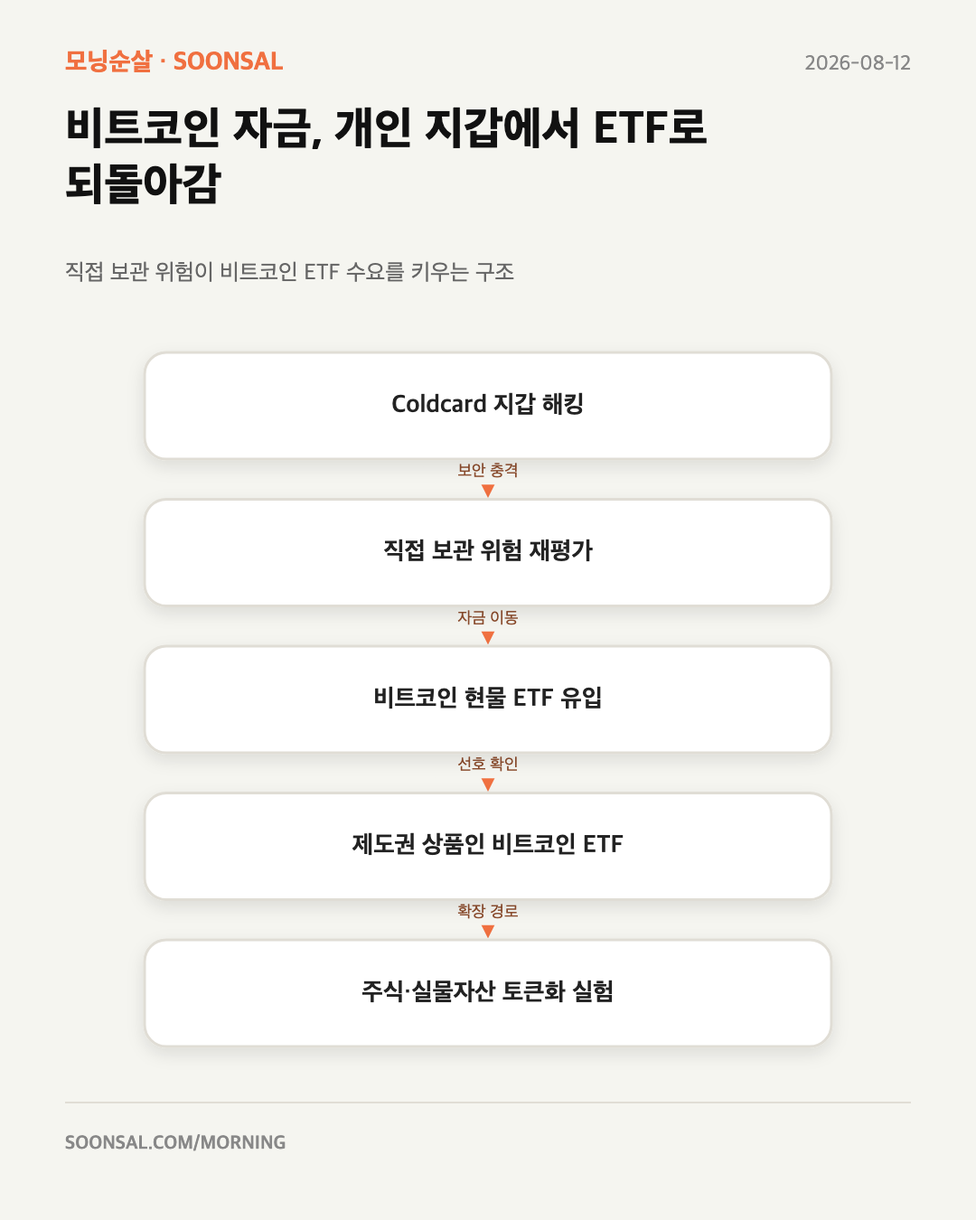
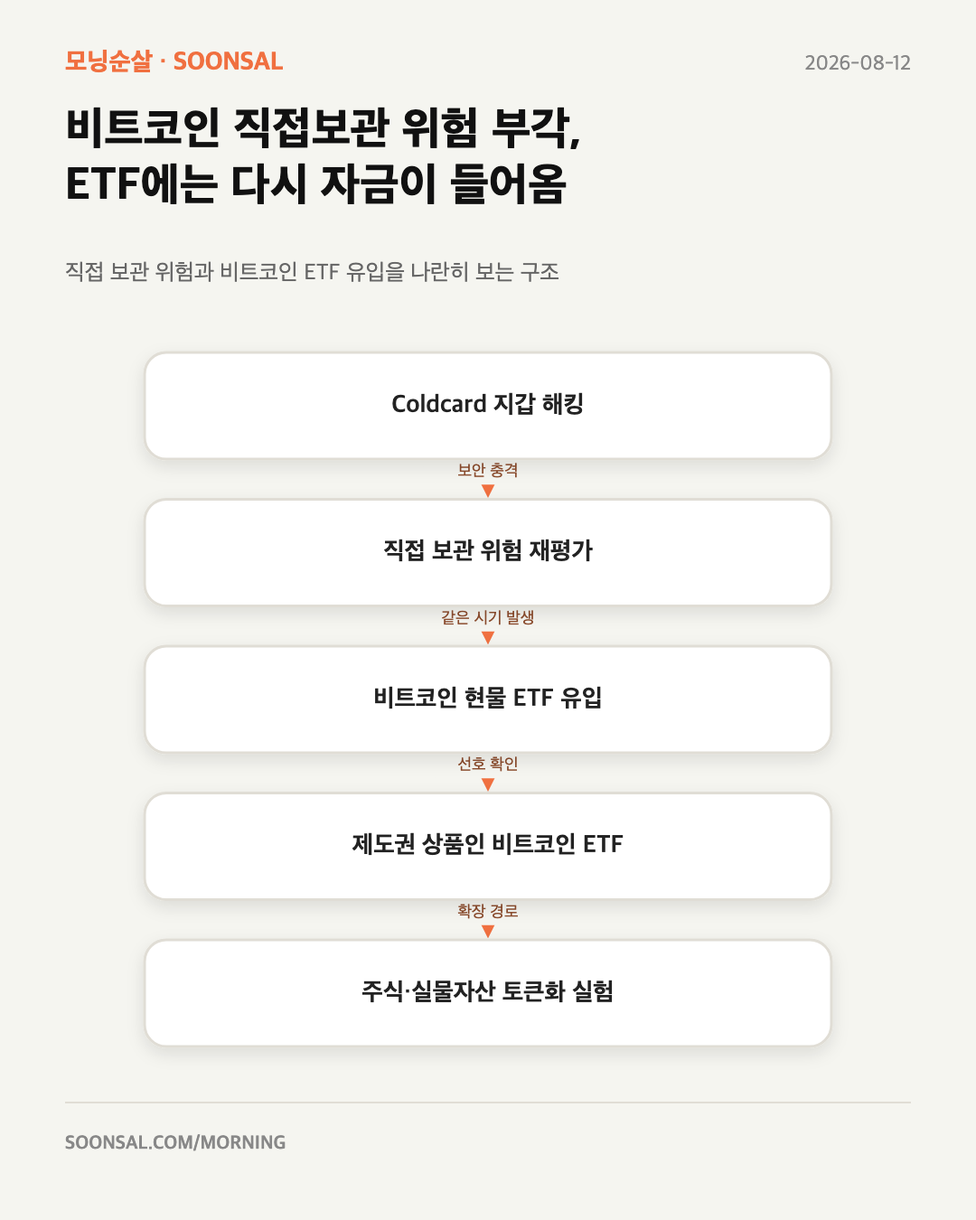
협업 페이지 — 파트너 8곳, 사례는 링크 우선, 격자로 정렬
제안서의 "기존 파트너사: 미래에셋자산운용, 한국투자증권, NH증권, 신한카드,
BC카드, 네이버, 두나무, Salesforce 등" 줄이 근거다. 넷만 올리고 있었다.

주의해서 걸렀다 — 삼성·현대차·LG·SK·토스·카카오·쿠팡은 제안서에 있지만
'구독자 도메인' 목록이다. 읽는 회사를 파트너로 올리면 그건 거짓말이 된다.

스샷을 크게 늘어놓던 것을 걷어냈다. 페이지만 길어지고 정작 링크가 묻힌다.
살아 있는 링크만 건다:
  Salesforce   발행분 (soonsal.com, 200 확인)
  미래에셋      인스타그램 게시물 (200 확인)
  한국투자증권·BC카드  링크 없음 → 썸네일 한 장만

네이버·두나무 등은 옛 사이트 자료라 링크가 죽어 있어 이름만 싣는다.

정렬: 브랜드 8칸을 4열 격자로(모바일 2열), 사례는 62px 정사각 썸네일 + 글
2열 격자로 통일했다. 폭이 제각각인 칩을 흘려두면 줄 끝이 들쭉날쭉하다.
사례 이미지는 240px 정사각으로 미리 잘라 행 높이가 흔들리지 않게 했다.

로고는 파일이 들어오면 자동으로 바뀐다 — assets/collab/logo-<slug>.svg|png
(mirae · kis · nh · shinhan · bccard · naver · dunamu · salesforce).

Changed region(s): [[0.0611, 0.0622, 0.7333, 0.1867], [0.3667, 0.2178, 0.55, 0.2489], [0.4583, 0.4978, 0.55, 0.5289]]

diff --git a/morning/2026/0812.html b/morning/2026/0812.html
@@ -119,7 +119,7 @@ border-radius:50%;background:#F07040;opacity:0;transition:opacity .2s}
   <span class="story-index" aria-hidden="true">02</span>
   <div class="story-label">02 · 에너지 · 거시경제</div>
   <h2 class="story-title">호르무즈 충격, 하루짜리 뉴스에서 2027년 변수로 바뀜</h2>
-  <p class="opening bullet">미 행정부는 이란 전쟁발 원유 공급 차질이 2027년 말까지 하루 약 60만 배럴 이어질 것으로 봤음. 시장이 공급 충격을 장기 변수로 다시 분류하는 중임</p>
+  <p class="opening bullet">미 에너지정보청은 호르무즈 해협 차질이 이어지며 산유량과 교역이 전쟁 전 수준으로 돌아가는 시점을 2027년 초로 봤음. 시장이 공급 충격을 장기 변수로 다시 분류하는 중임</p>
   <figure class="diagram-frame"><div class="diagram-live" role="img" aria-label="해협 통과량 감소가 물가로 번지는 경로" data-diagram-src="/morning/assets/20260812/hormuz-oil-diagram.svg?v=d826d7da6b7e" data-diagram-mobile-src="/morning/assets/20260812/hormuz-oil-diagram-mobile.svg?v=a8fa78831300" data-diagram-orientation="TB"><picture class="diagram-poster"><source media="(max-width:720px)" srcset="/morning/assets/20260812/hormuz-oil-diagram-mobile.svg?v=a8fa78831300"><img src="/morning/assets/20260812/hormuz-oil-diagram.svg?v=d826d7da6b7e" alt="" aria-hidden="true" loading="lazy"></picture></div><button class="diagram-replay" type="button" aria-label="해협 통과량 감소가 물가로 번지는 경로 애니메이션 다시 보기"><span aria-hidden="true">↻</span> 흐름 한 번 더</button></figure>
   <div class="soonsal-point"><strong>순살 포인트</strong><p>유가 급등 하루를 맞히는 문제가 아니라 에너지 비용이 물가와 금리의 하단을 얼마나 오래 받칠지 봐야 함</p></div>
 </article><article class="story morning-topic topic-ai" id="nvidia-financing" data-topic-theme="ai" data-ss-story="m20260812-nvidia-financing" data-ss-issue="m20260812" style="--topic-accent:#4D6F8A;--topic-wash:#EEF4F7;--topic-soft:#DDE9EF">
@@ -127,7 +127,7 @@ border-radius:50%;background:#F07040;opacity:0;transition:opacity .2s}
   <div class="story-label">03 · AI · 비상장시장</div>
   <h2 class="story-title">Nvidia, 칩 판매자에서 AI 금융의 보증인으로 이동함</h2>
   <p class="opening bullet">Nvidia와 대형 자산운용사들이 AI 인프라에 쓸 5,000억 달러 조달 계획을 내놨음. 고객에게 돈줄까지 대며 칩 수요를 키우는 구조임</p>
-  <figure class="diagram-frame"><div class="diagram-live" role="img" aria-label="Nvidia 신용이 고객의 AI 투자로 들어가는 구조" data-diagram-src="/morning/assets/20260812/nvidia-financing-diagram.svg?v=364fe79f1ef8" data-diagram-mobile-src="/morning/assets/20260812/nvidia-financing-diagram-mobile.svg?v=88e1df55a718" data-diagram-orientation="TB"><picture class="diagram-poster"><source media="(max-width:720px)" srcset="/morning/assets/20260812/nvidia-financing-diagram-mobile.svg?v=88e1df55a718"><img src="/morning/assets/20260812/nvidia-financing-diagram.svg?v=364fe79f1ef8" alt="" aria-hidden="true" loading="lazy"></picture></div><button class="diagram-replay" type="button" aria-label="Nvidia 신용이 고객의 AI 투자로 들어가는 구조 애니메이션 다시 보기"><span aria-hidden="true">↻</span> 흐름 한 번 더</button></figure>
+  <figure class="diagram-frame"><div class="diagram-live" role="img" aria-label="Nvidia 신용이 고객의 AI 투자로 들어가는 구조" data-diagram-src="/morning/assets/20260812/nvidia-financing-diagram.svg?v=cbfc952e0b64" data-diagram-mobile-src="/morning/assets/20260812/nvidia-financing-diagram-mobile.svg?v=bc9e5947454a" data-diagram-orientation="TB"><picture class="diagram-poster"><source media="(max-width:720px)" srcset="/morning/assets/20260812/nvidia-financing-diagram-mobile.svg?v=bc9e5947454a"><img src="/morning/assets/20260812/nvidia-financing-diagram.svg?v=cbfc952e0b64" alt="" aria-hidden="true" loading="lazy"></picture></div><button class="diagram-replay" type="button" aria-label="Nvidia 신용이 고객의 AI 투자로 들어가는 구조 애니메이션 다시 보기"><span aria-hidden="true">↻</span> 흐름 한 번 더</button></figure>
   <div class="soonsal-point"><strong>순살 포인트</strong><p>AI 투자가 둔화될 때 칩 판매량뿐 아니라 Nvidia가 지원한 자산의 잔존가치까지 함께 봐야 하는 새 위험 경로임</p></div>
 </article><article class="story morning-topic topic-ai" id="ai-physical-bottleneck" data-topic-theme="ai" data-ss-story="m20260812-ai-physical-bottleneck" data-ss-issue="m20260812" style="--topic-accent:#4D6F8A;--topic-wash:#EEF4F7;--topic-soft:#DDE9EF">
   <span class="story-index" aria-hidden="true">04</span>
@@ -140,8 +140,8 @@ border-radius:50%;background:#F07040;opacity:0;transition:opacity .2s}
   <span class="story-index" aria-hidden="true">05</span>
   <div class="story-label">05 · 환율 · 아시아</div>
   <h2 class="story-title">엔화 160선, 일본만의 문제가 아니라 원화 방어선임</h2>
-  <p class="opening bullet">엔화가 달러당 160엔에 다시 가까워졌음. 미일 공조 개입 뒤 얻은 상승분의 절반가량을 반납하면서 개입의 지속력을 다시 시험하는 자리임</p>
-  <figure class="diagram-frame"><div class="diagram-live" role="img" aria-label="엔화 약세가 원화 방어 부담으로 넘어오는 경로" data-diagram-src="/morning/assets/20260812/yen-160-diagram.svg?v=b394fa4257b5" data-diagram-mobile-src="/morning/assets/20260812/yen-160-diagram-mobile.svg?v=b813e1e65b58" data-diagram-orientation="TB"><picture class="diagram-poster"><source media="(max-width:720px)" srcset="/morning/assets/20260812/yen-160-diagram-mobile.svg?v=b813e1e65b58"><img src="/morning/assets/20260812/yen-160-diagram.svg?v=b394fa4257b5" alt="" aria-hidden="true" loading="lazy"></picture></div><button class="diagram-replay" type="button" aria-label="엔화 약세가 원화 방어 부담으로 넘어오는 경로 애니메이션 다시 보기"><span aria-hidden="true">↻</span> 흐름 한 번 더</button></figure>
+  <p class="opening bullet">엔화가 달러당 160엔에 다시 가까워졌음. 미일 공조 개입 뒤에도 약세가 다시 이어지면서 개입의 지속력을 시험하는 자리임</p>
+  <figure class="diagram-frame"><div class="diagram-live" role="img" aria-label="엔화 약세가 원화 방어 부담으로 넘어오는 경로" data-diagram-src="/morning/assets/20260812/yen-160-diagram.svg?v=137c5162c050" data-diagram-mobile-src="/morning/assets/20260812/yen-160-diagram-mobile.svg?v=c491e87f62ce" data-diagram-orientation="TB"><picture class="diagram-poster"><source media="(max-width:720px)" srcset="/morning/assets/20260812/yen-160-diagram-mobile.svg?v=c491e87f62ce"><img src="/morning/assets/20260812/yen-160-diagram.svg?v=137c5162c050" alt="" aria-hidden="true" loading="lazy"></picture></div><button class="diagram-replay" type="button" aria-label="엔화 약세가 원화 방어 부담으로 넘어오는 경로 애니메이션 다시 보기"><span aria-hidden="true">↻</span> 흐름 한 번 더</button></figure>
   <div class="soonsal-point"><strong>순살 포인트</strong><p>원화와 외국인 수급을 볼 때 미국 CPI만큼 엔화의 속도와 일본 당국 반응을 함께 봐야 하는 날임</p></div>
 </article><article class="story morning-topic topic-technology" id="apple-memory" data-topic-theme="technology" data-ss-story="m20260812-apple-memory" data-ss-issue="m20260812" style="--topic-accent:#5E6788;--topic-wash:#F0F1F7;--topic-soft:#E0E3EF">
   <span class="story-index" aria-hidden="true">06</span>
@@ -154,21 +154,21 @@ border-radius:50%;background:#F07040;opacity:0;transition:opacity .2s}
   <span class="story-index" aria-hidden="true">07</span>
   <div class="story-label">07 · 자동차 · 배터리</div>
   <h2 class="story-title">아시아 자동차 시장, EV 직행 대신 하이브리드를 택함</h2>
-  <p class="opening bullet">일본은 인도 대수의 절반 이상이 이미 하이브리드임. 인도와 동남아가 2035년까지 가장 빠른 성장 시장으로 꼽히면서 아시아 자동차 시장의 무게중심이 달라지는 중임</p>
+  <p class="opening bullet">일본에서 하이브리드가 신차 판매의 절반을 넘겼고, 동남아에서도 순수 전기차보다 하이브리드 판매가 더 빠르게 늘고 있음. 아시아 자동차 시장의 무게중심이 달라지는 중임</p>
   <figure class="diagram-frame"><div class="diagram-live" role="img" aria-label="하이브리드 확산이 한국 배터리 수요로 이어지는 경로" data-diagram-src="/morning/assets/20260812/hybrid-asia-diagram.svg?v=b21df0623553" data-diagram-mobile-src="/morning/assets/20260812/hybrid-asia-diagram-mobile.svg?v=0c80895044fb" data-diagram-orientation="TB"><picture class="diagram-poster"><source media="(max-width:720px)" srcset="/morning/assets/20260812/hybrid-asia-diagram-mobile.svg?v=0c80895044fb"><img src="/morning/assets/20260812/hybrid-asia-diagram.svg?v=b21df0623553" alt="" aria-hidden="true" loading="lazy"></picture></div><button class="diagram-replay" type="button" aria-label="하이브리드 확산이 한국 배터리 수요로 이어지는 경로 애니메이션 다시 보기"><span aria-hidden="true">↻</span> 흐름 한 번 더</button></figure>
   <div class="soonsal-point"><strong>순살 포인트</strong><p>전기차 판매량만 보면 놓치는 배터리 탑재량 변화가 한국 이차전지 실적에 직접 연결됨</p></div>
 </article><article class="story morning-topic topic-crypto" id="bitcoin-custody" data-topic-theme="crypto" data-ss-story="m20260812-bitcoin-custody" data-ss-issue="m20260812" style="--topic-accent:#7B5A78;--topic-wash:#F7EFF5;--topic-soft:#EBDDE8">
   <span class="story-index" aria-hidden="true">08</span>
   <div class="story-label">08 · 크립토 · 토큰화</div>
-  <h2 class="story-title">비트코인 자금, 개인 지갑에서 ETF로 되돌아감</h2>
-  <p class="opening bullet">Coldcard 지갑 해킹 뒤 미국 비트코인 현물 ETF에 4월 이후 최대 주간 순유입이 들어왔음. 직접 보관 위험이 커지자 제도권 상품인 ETF를 택한 흐름임</p>
-  <figure class="diagram-frame"><div class="diagram-live" role="img" aria-label="직접 보관 위험이 비트코인 ETF 수요를 키우는 구조" data-diagram-src="/morning/assets/20260812/bitcoin-custody-diagram.svg?v=e89d518339a0" data-diagram-mobile-src="/morning/assets/20260812/bitcoin-custody-diagram-mobile.svg?v=09f3bba0cd66" data-diagram-orientation="TB"><picture class="diagram-poster"><source media="(max-width:720px)" srcset="/morning/assets/20260812/bitcoin-custody-diagram-mobile.svg?v=09f3bba0cd66"><img src="/morning/assets/20260812/bitcoin-custody-diagram.svg?v=e89d518339a0" alt="" aria-hidden="true" loading="lazy"></picture></div><button class="diagram-replay" type="button" aria-label="직접 보관 위험이 비트코인 ETF 수요를 키우는 구조 애니메이션 다시 보기"><span aria-hidden="true">↻</span> 흐름 한 번 더</button></figure>
-  <div class="soonsal-point"><strong>순살 포인트</strong><p>크립토 확산의 승부처가 탈중앙화 자체보다 누가 보관하고 어떤 상품을 통해 거래되느냐로 이동하고 있음</p></div>
+  <h2 class="story-title">비트코인 직접보관 위험 부각, ETF에는 다시 자금이 들어옴</h2>
+  <p class="opening bullet">Coldcard 취약점 논란이 커진 같은 주, 미국 비트코인 현물 ETF에는 대규모 주간 순유입이 들어왔음. 두 흐름이 함께 나타났지만 직접적인 인과관계가 확인된 건 아님</p>
+  <figure class="diagram-frame"><div class="diagram-live" role="img" aria-label="직접 보관 위험과 비트코인 ETF 유입을 나란히 보는 구조" data-diagram-src="/morning/assets/20260812/bitcoin-custody-diagram.svg?v=fc3877815345" data-diagram-mobile-src="/morning/assets/20260812/bitcoin-custody-diagram-mobile.svg?v=ff442457dc0a" data-diagram-orientation="TB"><picture class="diagram-poster"><source media="(max-width:720px)" srcset="/morning/assets/20260812/bitcoin-custody-diagram-mobile.svg?v=ff442457dc0a"><img src="/morning/assets/20260812/bitcoin-custody-diagram.svg?v=fc3877815345" alt="" aria-hidden="true" loading="lazy"></picture></div><button class="diagram-replay" type="button" aria-label="직접 보관 위험과 비트코인 ETF 유입을 나란히 보는 구조 애니메이션 다시 보기"><span aria-hidden="true">↻</span> 흐름 한 번 더</button></figure>
+  <div class="soonsal-point"><strong>순살 포인트</strong><p>직접 보관과 ETF 가운데 무엇을 고를지 결정하는 기준에 보안과 관리 부담이 더 크게 들어오기 시작했음</p></div>
 </article><article class="story morning-topic topic-korea" id="korea-market" data-topic-theme="korea" data-ss-story="m20260812-korea-market" data-ss-issue="m20260812" style="--topic-accent:#B3541E;--topic-wash:#FBF0E9;--topic-soft:#F4DDCF">
   <span class="story-index" aria-hidden="true">09</span>
   <div class="story-label">09 · 한국 · 반도체</div>
   <h2 class="story-title">한국 시장, 메모리 호재와 AI 주가 부담이 함께 들어옴</h2>
-  <p class="opening bullet">8월 초 반도체 수출 호조로 삼성전자와 SK하이닉스가 반등했고 외국인도 순매수로 돌아섰음. 하지만 해외 시장은 같은 반도체 안에서도 서로 다른 방향을 가리킴</p>
+  <p class="opening bullet">반도체주 매수세가 돌아오며 삼성전자와 SK하이닉스가 동반 반등했음. 하지만 해외 시장은 같은 반도체 안에서도 서로 다른 방향을 가리킴</p>
   <figure class="diagram-frame"><div class="diagram-live" role="img" aria-label="한국 반도체에 들어오는 세 가지 서로 다른 신호" data-diagram-src="/morning/assets/20260812/korea-market-diagram.svg?v=71432acb1127" data-diagram-mobile-src="/morning/assets/20260812/korea-market-diagram-mobile.svg?v=134f1a57f475" data-diagram-orientation="TB"><picture class="diagram-poster"><source media="(max-width:720px)" srcset="/morning/assets/20260812/korea-market-diagram-mobile.svg?v=134f1a57f475"><img src="/morning/assets/20260812/korea-market-diagram.svg?v=71432acb1127" alt="" aria-hidden="true" loading="lazy"></picture></div><button class="diagram-replay" type="button" aria-label="한국 반도체에 들어오는 세 가지 서로 다른 신호 애니메이션 다시 보기"><span aria-hidden="true">↻</span> 흐름 한 번 더</button></figure>
   <div class="soonsal-point"><strong>순살 포인트</strong><p>반도체를 한 묶음으로 보지 말고 메모리 가격 결정권, AI 투자 지속성, 환율과 외국인 수급을 분리해서 봐야 함</p></div>
 </article></main>

diff --git a/collab/index.html b/collab/index.html
@@ -31,27 +31,31 @@ position:relative;transition:border-color .18s}
 border-radius:6px;padding:6px 10px;display:inline-block}
 .more{color:#8b8578;font-size:.86rem;line-height:1.75;margin:14px 0 0;padding:13px 15px;
 background:#161616;border:1px solid #222;border-radius:10px}
-/* 함께한 브랜드 — 로고 이미지 대신 워드마크로 통일한다. 받아온 로고는
-   품질·비율이 제각각이라 섞으면 오히려 조악해 보이고, 남의 로고를 임의로
-   가공하는 것도 좋은 방법이 아니다. */
-.brands{display:flex;flex-wrap:wrap;gap:8px;margin:0 0 24px}
-.brands span{display:inline-flex;align-items:center;justify-content:center;min-height:42px;
-font-size:.86rem;font-weight:700;letter-spacing:-.01em;color:#c9c4ba;
-background:#181818;border:1px solid #262626;border-radius:8px;padding:9px 14px}
-/* 로고가 들어오면 흰 배경 로고도 어두운 판에서 읽히게 */
-.brands span.lg{background:#f7f5f0;padding:9px 16px}
-.brands span.lg img{height:22px;width:auto;display:block}
-/* 사례 — 실제 집행분만. 제작물을 직접 보여주는 게 설명보다 빠르다 */
-.cases{display:flex;flex-direction:column;gap:12px}
-.case{background:#161616;border:1px solid #232323;border-radius:12px;padding:17px 17px 15px}
-.case .ct{font-size:.72rem;font-weight:800;letter-spacing:.04em;color:#F5A481;margin-bottom:8px}
-.case p{color:#9a948a;font-size:.87rem;line-height:1.72;margin:0 0 12px}
-.case a{color:#F07040;font-size:.85rem;font-weight:700;text-decoration:none}
+/* 함께한 브랜드 — 8곳이 한 판에 고르게 놓이도록 격자로. 폭이 제각각인 칩을
+   흘려두면 줄 끝이 들쭉날쭉해 정돈돼 보이지 않는다. */
+.brands{display:grid;grid-template-columns:repeat(4,minmax(0,1fr));gap:8px;margin:0 0 26px}
+.brands span{display:flex;align-items:center;justify-content:center;min-height:46px;
+padding:8px 10px;text-align:center;font-size:.8rem;font-weight:700;letter-spacing:-.02em;
+color:#c9c4ba;background:#181818;border:1px solid #262626;border-radius:9px;line-height:1.3}
+.brands span.lg{background:#f7f5f0}
+.brands span.lg img{height:20px;width:auto;display:block}
+@media(max-width:560px){.brands{grid-template-columns:repeat(2,minmax(0,1fr))}}
+
+/* 사례 — 썸네일(정사각) + 글. 행 구조가 같아야 눈이 편하다.
+   스샷을 크게 늘어놓으면 페이지가 길어지고 링크가 묻힌다. */
+.cases{display:grid;grid-template-columns:repeat(2,minmax(0,1fr));gap:12px}
+.case{display:flex;gap:14px;background:#161616;border:1px solid #232323;border-radius:12px;
+padding:15px 16px}
+.case .th{flex:0 0 auto;width:62px;height:62px;border-radius:9px;object-fit:cover;
+background:#f7f5f0;border:1px solid #242424;padding:0}
+.case img.th[src$=".svg"]{object-fit:contain;padding:9px}
+.case .cb{min-width:0;flex:1}
+.case .ct{font-size:.72rem;font-weight:800;letter-spacing:.02em;color:#F5A481;margin-bottom:7px}
+.case p{color:#948e84;font-size:.84rem;line-height:1.68;margin:0}
+.case a{display:inline-block;margin-top:9px;color:#F07040;font-size:.82rem;font-weight:700;
+text-decoration:none}
 .case a:hover{text-decoration:underline}
-.shots{display:grid;grid-template-columns:1fr 1fr;gap:9px}
-.shots.one{grid-template-columns:1fr;max-width:420px}
-.shots img{width:100%;height:auto;border-radius:8px;display:block;border:1px solid #242424}
-@media(max-width:560px){.shots{grid-template-columns:1fr}}
+@media(max-width:640px){.cases{grid-template-columns:1fr}}
 @media(max-width:560px){.scopes{grid-template-columns:1fr}}
 a{color:#eee;text-decoration:none}
 h1{font-size:1.8rem;letter-spacing:-.03em;margin-bottom:12px;line-height:1.35}
@@ -215,41 +219,45 @@ border-radius:50%;background:#F07040;opacity:0;transition:opacity .2s}
 
 <section>
 <h2>이런 브랜드와 함께했습니다</h2>
-<div class="brands"><span class="lg"><img src="/assets/collab/logo-salesforce.svg" alt="Salesforce" loading="lazy"/></span><span>한국투자증권</span><span>미래에셋자산운용</span><span>BC카드 페이북</span></div>
+<div class="brands"><span>미래에셋자산운용</span><span>한국투자증권</span><span>NH증권</span><span>신한카드</span><span>BC카드</span><span>네이버</span><span>두나무</span><span class="lg"><img src="/assets/collab/logo-salesforce.svg" alt="Salesforce" loading="lazy"/></span></div>
 
 <div class="cases">
 <div class="case">
+<img class="th" src="/assets/collab/logo-salesforce.svg" alt="Salesforce" loading="lazy"/>
+<div class="cb">
 <div class="ct">Salesforce · 스폰서 스토리</div>
-<p>금융권 망분리 규제 완화라는 시의성 있는 주제를 잡아, 브랜드가 말하고 싶은
-메시지를 순살 톤의 한 바닥으로 풀었습니다.</p>
-<a href="/newsletters/2026/0805.html#story-2">실제 발행분 보기 →</a>
-</div>
+<p>금융권 망분리 규제 완화라는 시의성 있는 주제로, 브랜드 메시지를 순살 톤의
+한 바닥으로 풀었습니다.</p>
+<a href="/newsletters/2026/0805.html#story-2">발행분 보기 →</a>
+</div></div>
 
 <div class="case">
-<div class="ct">한국투자증권 · 공동 브랜딩 카드뉴스</div>
-<p>ELW 민감도(Greeks)처럼 어려운 파생상품 개념을 일반 투자자가 이해할 수 있는
-형태로. 주제 선정부터 카피·일러스트·디자인까지 순살이 수행했습니다.</p>
-<div class="shots"><img src="/assets/collab/kis_elw_1.jpg" alt="한국투자증권 ELW 시리즈 카드뉴스"
- loading="lazy" width="760" height="760"/>
-<img src="/assets/collab/kis_elw_2.jpg" alt="한국투자증권 ELW 시리즈 카드뉴스"
- loading="lazy" width="760" height="760"/></div>
-</div>
-
-<div class="case">
+<img class="th" src="/assets/collab/th-mirae.jpg" alt="미래에셋자산운용 캠페인" loading="lazy"
+ width="240" height="240"/>
+<div class="cb">
 <div class="ct">미래에셋자산운용 · 브랜디드 카드뉴스</div>
-<p>앞부분이 에디토리얼 내러티브로 빌드업하고 후반부에 상품이 노출되는 구조.
-광고 한 장이 아니라 열 장 전체가 하나의 브랜드 스토리로 기능합니다.</p>
-<div class="shots one"><img src="/assets/collab/mirae_etf.jpg" alt="미래에셋자산운용 캠페인 카드뉴스"
- loading="lazy" width="900" height="900"/></div>
-</div>
+<p>10장 캐러셀 풀 제작. 앞부분이 에디토리얼로 빌드업하고 후반부에 상품이
+노출되는 구조입니다.</p>
+<a href="https://www.instagram.com/p/CbXDJFEBeta/" target="_blank" rel="noopener">인스타그램에서 보기 →</a>
+</div></div>
 
 <div class="case">
+<img class="th" src="/assets/collab/th-kis.jpg" alt="한국투자증권 ELW 시리즈" loading="lazy"
+ width="240" height="240"/>
+<div class="cb">
+<div class="ct">한국투자증권 · 공동 브랜딩 카드뉴스</div>
+<p>ELW 민감도(Greeks) 같은 파생상품 개념을 일반 투자자가 이해할 형태로.
+주제 선정부터 카피·일러스트·디자인까지 순살이 수행했습니다.</p>
+</div></div>
+
+<div class="case">
+<img class="th" src="/assets/collab/th-bc.jpg" alt="페이북 × 순살" loading="lazy"
+ width="240" height="240"/>
+<div class="cb">
 <div class="ct">BC카드 페이북 · 인앱 콘텐츠 공급</div>
 <p>파트너 앱 안에 순살 콘텐츠를 정기 공급했습니다. 브랜드 채널에 실리는
 형태의 협업입니다.</p>
-<div class="shots one"><img src="/assets/collab/bc_paybooc.jpg" alt="페이북 × 순살"
- loading="lazy" width="720" height="230"/></div>
-</div>
+</div></div>
 </div>
 
 <p class="note">스폰서 스토리는 일반 스토리와 같은 자리, 같은 문체로 실립니다.

diff --git a/morning/index.html b/morning/index.html
@@ -95,6 +95,6 @@ border-radius:50%;background:#F07040;opacity:0;transition:opacity .2s}
 <nav class="nav" aria-label="주요 메뉴"><a href="/newsletters/">브리핑</a><a href="/morning/" class="active">모닝순살</a><a href="/talk/">순살톡</a><a href="/topics/">주제별</a><a href="/school/" class="nav-desktop-link">스쿨</a><a href="/collab/" class="nav-desktop-link biz">협업 문의</a><details class="nav-more"><summary>더보기 <span aria-hidden="true">⌄</span></summary><section class="nav-menu" aria-label="추가 메뉴"><a href="/cardnews/">카드뉴스</a><a href="/youtube/">YouTube</a><a href="/school/" class="nav-mobile-only">스쿨</a><a href="/collab/" class="nav-mobile-only biz">협업 문의</a></section></details></nav>
 <main class="archive-shell"><header class="archive-head"><div class="archive-kicker">날짜별 시장 정리</div><h1>모닝순살</h1><p class="deck">날짜를 고르고, 궁금한 주제부터 바로 봄</p></header><section class="archive-list" aria-label="날짜별 모닝순살"><article class="issue-card latest">
   <header class="issue-head"><a class="issue-date" href="2026/0812.html" aria-label="2026-08-12 모닝순살 전체 보기"><time datetime="2026-08-12">2026-08-12</time><span class="latest-badge">최신</span><span class="issue-count">9개 주제</span><span class="issue-all">전체 보기 →</span></a></header>
-  <ol class="topic-list" aria-label="2026-08-12 주제 목록"><li><a href="2026/0812.html#cpi-bond-shorts"><span class="topic-no">01</span><span class="topic-title">CPI 숫자보다 무서운 건, 한쪽에 몰린 채권 베팅</span><span class="topic-go" aria-hidden="true">→</span></a></li><li><a href="2026/0812.html#hormuz-oil"><span class="topic-no">02</span><span class="topic-title">호르무즈 충격, 하루짜리 뉴스에서 2027년 변수로 바뀜</span><span class="topic-go" aria-hidden="true">→</span></a></li><li><a href="2026/0812.html#nvidia-financing"><span class="topic-no">03</span><span class="topic-title">Nvidia, 칩 판매자에서 AI 금융의 보증인으로 이동함</span><span class="topic-go" aria-hidden="true">→</span></a></li><li><a href="2026/0812.html#ai-physical-bottleneck"><span class="topic-no">04</span><span class="topic-title">AI에 돈은 넘치는데, 전력과 변압기는 찍어낼 수 없음</span><span class="topic-go" aria-hidden="true">→</span></a></li><li><a href="2026/0812.html#yen-160"><span class="topic-no">05</span><span class="topic-title">엔화 160선, 일본만의 문제가 아니라 원화 방어선임</span><span class="topic-go" aria-hidden="true">→</span></a></li><li><a href="2026/0812.html#apple-memory"><span class="topic-no">06</span><span class="topic-title">Apple 마진, 메모리 업체 쪽으로 이동하는 중</span><span class="topic-go" aria-hidden="true">→</span></a></li><li><a href="2026/0812.html#hybrid-asia"><span class="topic-no">07</span><span class="topic-title">아시아 자동차 시장, EV 직행 대신 하이브리드를 택함</span><span class="topic-go" aria-hidden="true">→</span></a></li><li><a href="2026/0812.html#bitcoin-custody"><span class="topic-no">08</span><span class="topic-title">비트코인 자금, 개인 지갑에서 ETF로 되돌아감</span><span class="topic-go" aria-hidden="true">→</span></a></li><li><a href="2026/0812.html#korea-market"><span class="topic-no">09</span><span class="topic-title">한국 시장, 메모리 호재와 AI 주가 부담이 함께 들어옴</span><span class="topic-go" aria-hidden="true">→</span></a></li></ol>
+  <ol class="topic-list" aria-label="2026-08-12 주제 목록"><li><a href="2026/0812.html#cpi-bond-shorts"><span class="topic-no">01</span><span class="topic-title">CPI 숫자보다 무서운 건, 한쪽에 몰린 채권 베팅</span><span class="topic-go" aria-hidden="true">→</span></a></li><li><a href="2026/0812.html#hormuz-oil"><span class="topic-no">02</span><span class="topic-title">호르무즈 충격, 하루짜리 뉴스에서 2027년 변수로 바뀜</span><span class="topic-go" aria-hidden="true">→</span></a></li><li><a href="2026/0812.html#nvidia-financing"><span class="topic-no">03</span><span class="topic-title">Nvidia, 칩 판매자에서 AI 금융의 보증인으로 이동함</span><span class="topic-go" aria-hidden="true">→</span></a></li><li><a href="2026/0812.html#ai-physical-bottleneck"><span class="topic-no">04</span><span class="topic-title">AI에 돈은 넘치는데, 전력과 변압기는 찍어낼 수 없음</span><span class="topic-go" aria-hidden="true">→</span></a></li><li><a href="2026/0812.html#yen-160"><span class="topic-no">05</span><span class="topic-title">엔화 160선, 일본만의 문제가 아니라 원화 방어선임</span><span class="topic-go" aria-hidden="true">→</span></a></li><li><a href="2026/0812.html#apple-memory"><span class="topic-no">06</span><span class="topic-title">Apple 마진, 메모리 업체 쪽으로 이동하는 중</span><span class="topic-go" aria-hidden="true">→</span></a></li><li><a href="2026/0812.html#hybrid-asia"><span class="topic-no">07</span><span class="topic-title">아시아 자동차 시장, EV 직행 대신 하이브리드를 택함</span><span class="topic-go" aria-hidden="true">→</span></a></li><li><a href="2026/0812.html#bitcoin-custody"><span class="topic-no">08</span><span class="topic-title">비트코인 직접보관 위험 부각, ETF에는 다시 자금이 들어옴</span><span class="topic-go" aria-hidden="true">→</span></a></li><li><a href="2026/0812.html#korea-market"><span class="topic-no">09</span><span class="topic-title">한국 시장, 메모리 호재와 AI 주가 부담이 함께 들어옴</span><span class="topic-go" aria-hidden="true">→</span></a></li></ol>
 </article></section></main>
 <script src="/ss-config.js"></script><script src="/soonsal.js" defer></script></body></html>

diff --git a/scripts/build_advertise.py b/scripts/build_advertise.py
@@ -39,27 +39,31 @@ position:relative;transition:border-color .18s}
 border-radius:6px;padding:6px 10px;display:inline-block}
 .more{color:#8b8578;font-size:.86rem;line-height:1.75;margin:14px 0 0;padding:13px 15px;
 background:#161616;border:1px solid #222;border-radius:10px}
-/* 함께한 브랜드 — 로고 이미지 대신 워드마크로 통일한다. 받아온 로고는
-   품질·비율이 제각각이라 섞으면 오히려 조악해 보이고, 남의 로고를 임의로
-   가공하는 것도 좋은 방법이 아니다. */
-.brands{display:flex;flex-wrap:wrap;gap:8px;margin:0 0 24px}
-.brands span{display:inline-flex;align-items:center;justify-content:center;min-height:42px;
-font-size:.86rem;font-weight:700;letter-spacing:-.01em;color:#c9c4ba;
-background:#181818;border:1px solid #262626;border-radius:8px;padding:9px 14px}
-/* 로고가 들어오면 흰 배경 로고도 어두운 판에서 읽히게 */
-.brands span.lg{background:#f7f5f0;padding:9px 16px}
-.brands span.lg img{height:22px;width:auto;display:block}
-/* 사례 — 실제 집행분만. 제작물을 직접 보여주는 게 설명보다 빠르다 */
-.cases{display:flex;flex-direction:column;gap:12px}
-.case{background:#161616;border:1px solid #232323;border-radius:12px;padding:17px 17px 15px}
-.case .ct{font-size:.72rem;font-weight:800;letter-spacing:.04em;color:#F5A481;margin-bottom:8px}
-.case p{color:#9a948a;font-size:.87rem;line-height:1.72;margin:0 0 12px}
-.case a{color:#F07040;font-size:.85rem;font-weight:700;text-decoration:none}
+/* 함께한 브랜드 — 8곳이 한 판에 고르게 놓이도록 격자로. 폭이 제각각인 칩을
+   흘려두면 줄 끝이 들쭉날쭉해 정돈돼 보이지 않는다. */
+.brands{display:grid;grid-template-columns:repeat(4,minmax(0,1fr));gap:8px;margin:0 0 26px}
+.brands span{display:flex;align-items:center;justify-content:center;min-height:46px;
+padding:8px 10px;text-align:center;font-size:.8rem;font-weight:700;letter-spacing:-.02em;
+color:#c9c4ba;background:#181818;border:1px solid #262626;border-radius:9px;line-height:1.3}
+.brands span.lg{background:#f7f5f0}
+.brands span.lg img{height:20px;width:auto;display:block}
+@media(max-width:560px){.brands{grid-template-columns:repeat(2,minmax(0,1fr))}}
+
+/* 사례 — 썸네일(정사각) + 글. 행 구조가 같아야 눈이 편하다.
+   스샷을 크게 늘어놓으면 페이지가 길어지고 링크가 묻힌다. */
+.cases{display:grid;grid-template-columns:repeat(2,minmax(0,1fr));gap:12px}
+.case{display:flex;gap:14px;background:#161616;border:1px solid #232323;border-radius:12px;
+padding:15px 16px}
+.case .th{flex:0 0 auto;width:62px;height:62px;border-radius:9px;object-fit:cover;
+background:#f7f5f0;border:1px solid #242424;padding:0}
+.case img.th[src$=".svg"]{object-fit:contain;padding:9px}
+.case .cb{min-width:0;flex:1}
+.case .ct{font-size:.72rem;font-weight:800;letter-spacing:.02em;color:#F5A481;margin-bottom:7px}
+.case p{color:#948e84;font-size:.84rem;line-height:1.68;margin:0}
+.case a{display:inline-block;margin-top:9px;color:#F07040;font-size:.82rem;font-weight:700;
+text-decoration:none}
 .case a:hover{text-decoration:underline}
-.shots{display:grid;grid-template-columns:1fr 1fr;gap:9px}
-.shots.one{grid-template-columns:1fr;max-width:420px}
-.shots img{width:100%;height:auto;border-radius:8px;display:block;border:1px solid #242424}
-@media(max-width:560px){.shots{grid-template-columns:1fr}}
+@media(max-width:640px){.cases{grid-template-columns:1fr}}
 @media(max-width:560px){.scopes{grid-template-columns:1fr}}
 a{color:#eee;text-decoration:none}
 h1{font-size:1.8rem;letter-spacing:-.03em;margin-bottom:12px;line-height:1.35}
@@ -98,11 +102,18 @@ border-radius:9px;font-size:1rem;letter-spacing:-.01em}
 # 함께한 브랜드. 로고 파일이 있으면 로고를, 없으면 워드마크를 쓴다 —
 # 파일을 assets/collab/logo-<slug>.svg|png 로 넣으면 다음 빌드에 자동으로 바뀐다.
 # 품질이 제각각인 로고를 억지로 섞으면 오히려 조악해 보이므로, 없는 건 글자로 둔다.
+# 근거: 제안서의 "기존 파트너사: 미래에셋자산운용, 한국투자증권, NH증권,
+# 신한카드, BC카드, 네이버, 두나무, Salesforce 등" 한 줄. 여기 없는 곳은 넣지 않는다 —
+# 제안 단계이거나 구독자 도메인 목록에만 있는 이름을 파트너로 올리면 안 된다.
 BRANDS = [
-    ("Salesforce", "salesforce"),
-    ("한국투자증권", "kis"),
     ("미래에셋자산운용", "mirae"),
-    ("BC카드 페이북", "paybooc"),
+    ("한국투자증권", "kis"),
+    ("NH증권", "nh"),
+    ("신한카드", "shinhan"),
+    ("BC카드", "bccard"),
+    ("네이버", "naver"),
+    ("두나무", "dunamu"),
+    ("Salesforce", "salesforce"),
 ]
 
 
@@ -192,37 +203,41 @@ def build():
 
 <div class="cases">
 <div class="case">
+<img class="th" src="/assets/collab/logo-salesforce.svg" alt="Salesforce" loading="lazy"/>
+<div class="cb">
 <div class="ct">Salesforce · 스폰서 스토리</div>
-<p>금융권 망분리 규제 완화라는 시의성 있는 주제를 잡아, 브랜드가 말하고 싶은
-메시지를 순살 톤의 한 바닥으로 풀었습니다.</p>
-<a href="/newsletters/2026/0805.html#story-2">실제 발행분 보기 →</a>
-</div>
+<p>금융권 망분리 규제 완화라는 시의성 있는 주제로, 브랜드 메시지를 순살 톤의
+한 바닥으로 풀었습니다.</p>
+<a href="/newsletters/2026/0805.html#story-2">발행분 보기 →</a>
+</div></div>
 
 <div class="case">
-<div class="ct">한국투자증권 · 공동 브랜딩 카드뉴스</div>
-<p>ELW 민감도(Greeks)처럼 어려운 파생상품 개념을 일반 투자자가 이해할 수 있는
-형태로. 주제 선정부터 카피·일러스트·디자인까지 순살이 수행했습니다.</p>
-<div class="shots"><img src="/assets/collab/kis_elw_1.jpg" alt="한국투자증권 ELW 시리즈 카드뉴스"
- loading="lazy" width="760" height="760"/>
-<img src="/assets/collab/kis_elw_2.jpg" alt="한국투자증권 ELW 시리즈 카드뉴스"
- loading="lazy" width="760" height="760"/></div>
-</div>
-
-<div class="case">
+<img class="th" src="/assets/collab/th-mirae.jpg" alt="미래에셋자산운용 캠페인" loading="lazy"
+ width="240" height="240"/>
+<div class="cb">
 <div class="ct">미래에셋자산운용 · 브랜디드 카드뉴스</div>
-<p>앞부분이 에디토리얼 내러티브로 빌드업하고 후반부에 상품이 노출되는 구조.
-광고 한 장이 아니라 열 장 전체가 하나의 브랜드 스토리로 기능합니다.</p>
-<div class="shots one"><img src="/assets/collab/mirae_etf.jpg" alt="미래에셋자산운용 캠페인 카드뉴스"
- loading="lazy" width="900" height="900"/></div>
-</div>
+<p>10장 캐러셀 풀 제작. 앞부분이 에디토리얼로 빌드업하고 후반부에 상품이
+노출되는 구조입니다.</p>
+<a href="https://www.instagram.com/p/CbXDJFEBeta/" target="_blank" rel="noopener">인스타그램에서 보기 →</a>
+</div></div>
 
 <div class="case">
+<img class="th" src="/assets/collab/th-kis.jpg" alt="한국투자증권 ELW 시리즈" loading="lazy"
+ width="240" height="240"/>
+<div class="cb">
+<div class="ct">한국투자증권 · 공동 브랜딩 카드뉴스</div>
+<p>ELW 민감도(Greeks) 같은 파생상품 개념을 일반 투자자가 이해할 형태로.
+주제 선정부터 카피·일러스트·디자인까지 순살이 수행했습니다.</p>
+</div></div>
+
+<div class="case">
+<img class="th" src="/assets/collab/th-bc.jpg" alt="페이북 × 순살" loading="lazy"
+ width="240" height="240"/>
+<div class="cb">
 <div class="ct">BC카드 페이북 · 인앱 콘텐츠 공급</div>
 <p>파트너 앱 안에 순살 콘텐츠를 정기 공급했습니다. 브랜드 채널에 실리는
 형태의 협업입니다.</p>
-<div class="shots one"><img src="/assets/collab/bc_paybooc.jpg" alt="페이북 × 순살"
- loading="lazy" width="720" height="230"/></div>
-</div>
+</div></div>
 </div>
 
 <p class="note">스폰서 스토리는 일반 스토리와 같은 자리, 같은 문체로 실립니다.
